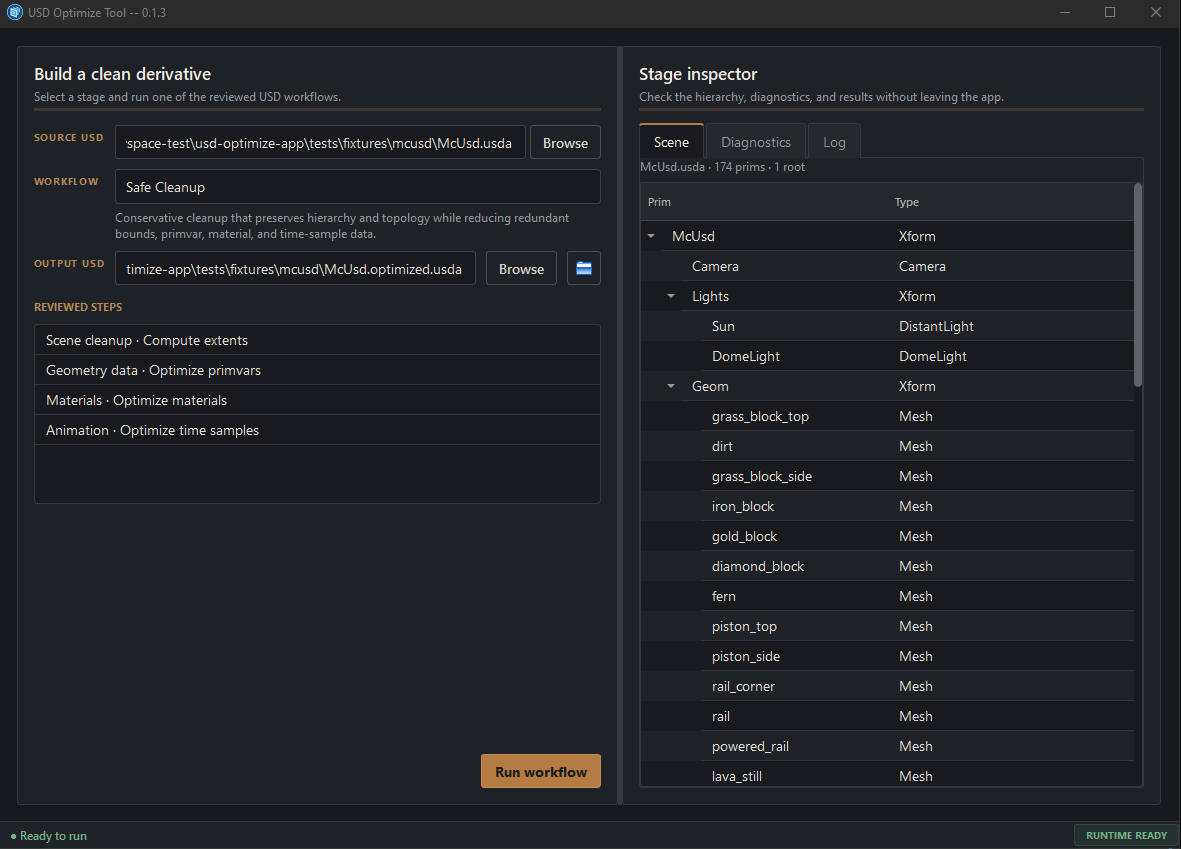
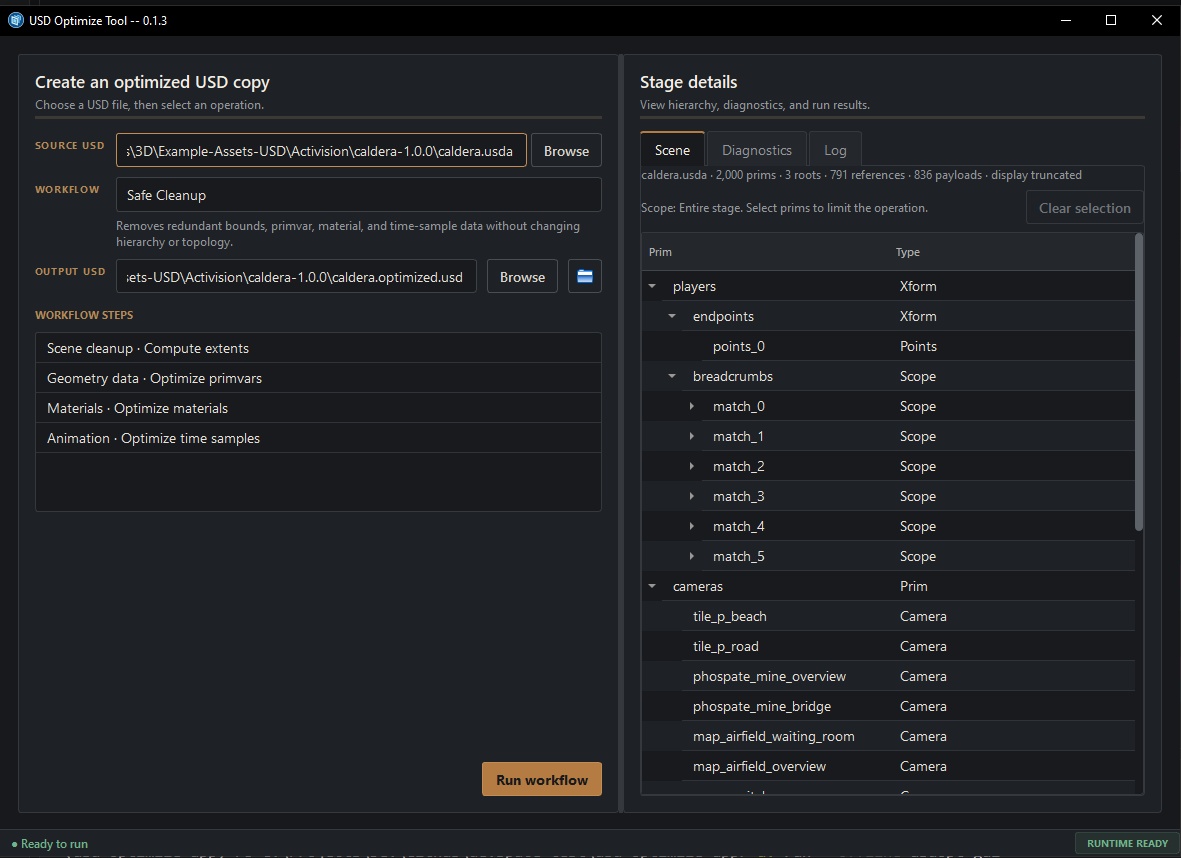
Refresh app copy and screenshot

diff --git a/src/usd_optimize_app/gui/main_window.py b/src/usd_optimize_app/gui/main_window.py
@@ -118,7 +118,7 @@ class MainWindow(QMainWindow):
         self._input_edit.setPlaceholderText("Choose a USD file")
         self._input_edit.setToolTip("Enter a local .usd, .usda, or .usdc path.")
         self._output_edit = QLineEdit()
-        self._output_edit.setPlaceholderText("A separate optimized copy is suggested automatically")
+        self._output_edit.setPlaceholderText("Output path is based on the source file")
         self._workflow_combo = NoWheelComboBox()
         self._configure_expanding_combo(self._workflow_combo)
         self._description_label = self._create_wrapped_label()
@@ -136,7 +136,7 @@ class MainWindow(QMainWindow):
         )
         self._scene_summary_label.setObjectName("SectionHint")
         self._scene_scope_label = self._create_wrapped_label(
-            "Scope: Entire stage · select one or more prims to limit the workflow."
+            "Scope: Entire stage. Select prims to limit the operation."
         )
         self._scene_scope_label.setObjectName("SectionHint")
         self._clear_scope_button = QPushButton("Clear selection")
@@ -145,10 +145,10 @@ class MainWindow(QMainWindow):
         self._scene_tree = QTreeWidget()
         configure_scene_tree(self._scene_tree)
         self._scene_tree.itemSelectionChanged.connect(self._update_scene_scope)
-        self._log_edit = self._create_read_only_text("Run a workflow to see worker messages.")
+        self._log_edit = self._create_read_only_text("Run an operation to view its log.")
         configure_log_view(self._log_edit)
         self._analysis_edit = self._create_read_only_text(
-            "Run Find Overlaps to see structured findings."
+            "Run Find Overlaps to view affected meshes."
         )
         self._diagnostics_summary_label = self._create_wrapped_label(
             "Choose an input USD to inspect stage statistics."
@@ -266,8 +266,8 @@ class MainWindow(QMainWindow):
         layout.setSpacing(14)
         layout.addLayout(
             self._build_section_heading(
-                "Build a clean derivative",
-                "Select a stage and run one of the reviewed USD workflows.",
+                "Create an optimized USD copy",
+                "Choose a USD file, then select an operation.",
             )
         )
         layout.addWidget(self._build_file_group())
@@ -376,8 +376,8 @@ class MainWindow(QMainWindow):
         layout.setSpacing(12)
         layout.addLayout(
             self._build_section_heading(
-                "Stage inspector",
-                "Check the hierarchy, diagnostics, and results without leaving the app.",
+                "Stage details",
+                "View hierarchy, diagnostics, and run results.",
             )
         )
 
@@ -635,7 +635,7 @@ class MainWindow(QMainWindow):
         paths = selected_prim_paths(self._scene_tree)
         preset = self._current_preset()
         if not paths:
-            message = "Scope: Entire stage · select one or more prims to limit the workflow."
+            message = "Scope: Entire stage. Select prims to limit the operation."
         elif len(paths) == 1:
             message = f"Scope: {paths[0]} and all descendants"
         else:
